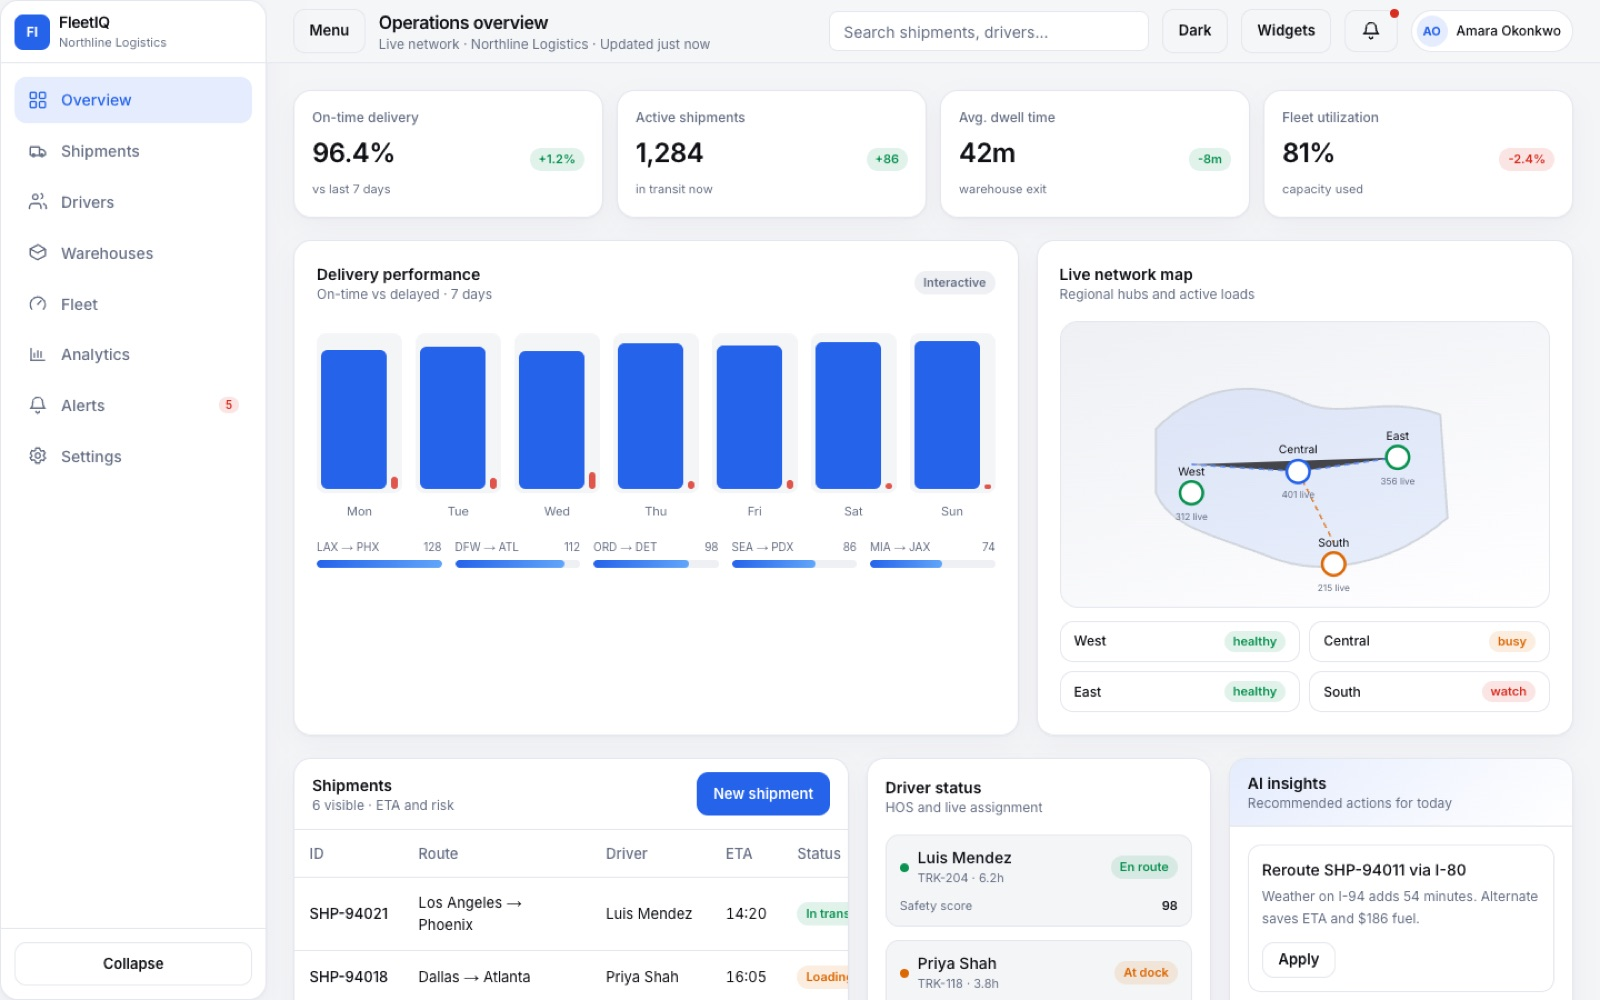
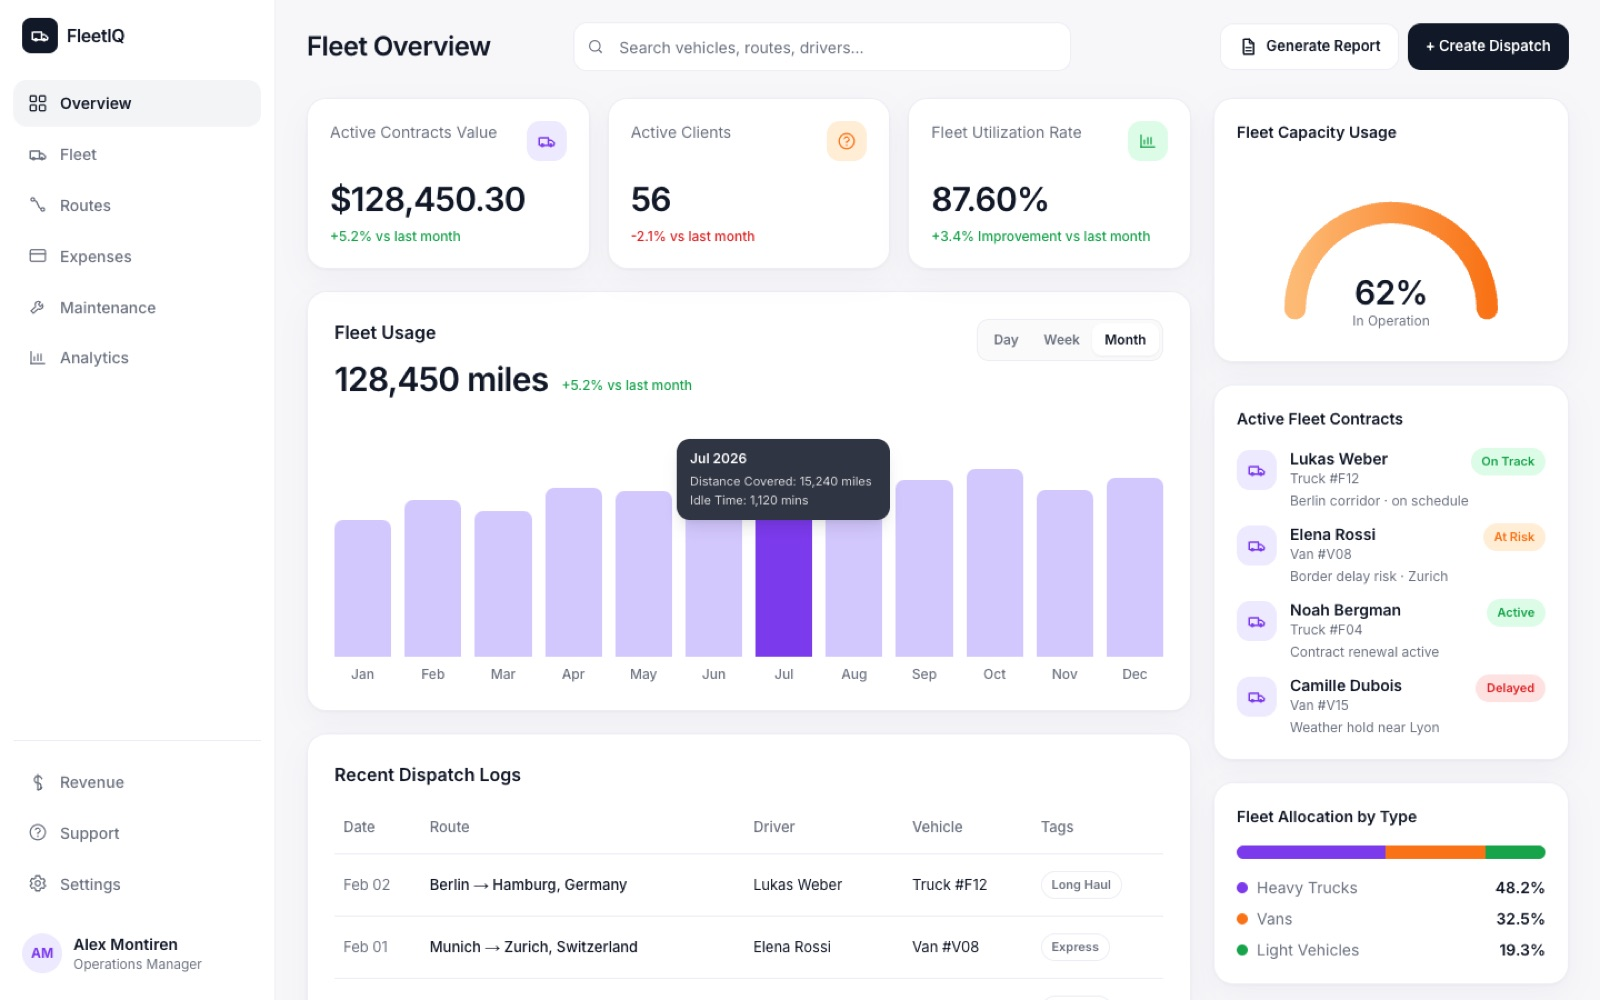
Refresh FleetIQ mockup for simplified dashboard layout.

diff --git a/content/websites/index.ts b/content/websites/index.ts
@@ -112,10 +112,10 @@ export const websites: Website[] = [
     description: "Enterprise logistics dashboard",
     mockup: {
       src: "/images/websites/fleetiq/mockup.jpg",
-      alt: "FleetIQ logistics operations dashboard with KPIs, charts, and shipment table",
+      alt: "FleetIQ fleet overview dashboard with usage chart and dispatch logs",
       width: 1600,
       height: 900,
-      cardBackground: "#F4F5F7",
+      cardBackground: "#F7F7F9",
     },
     url: "https://studio.hammedshotola.com/fleetiq",
     status: "live",
